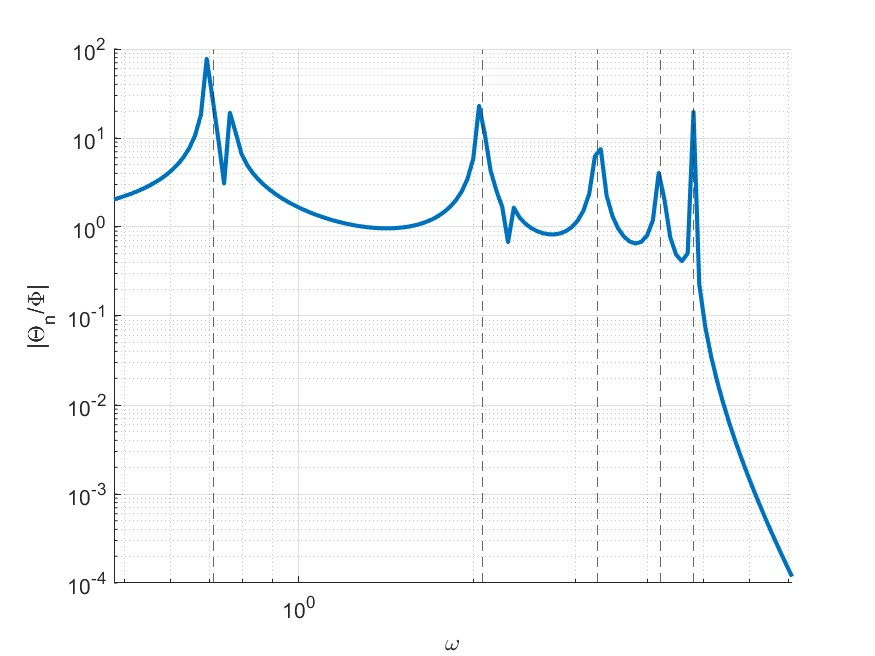
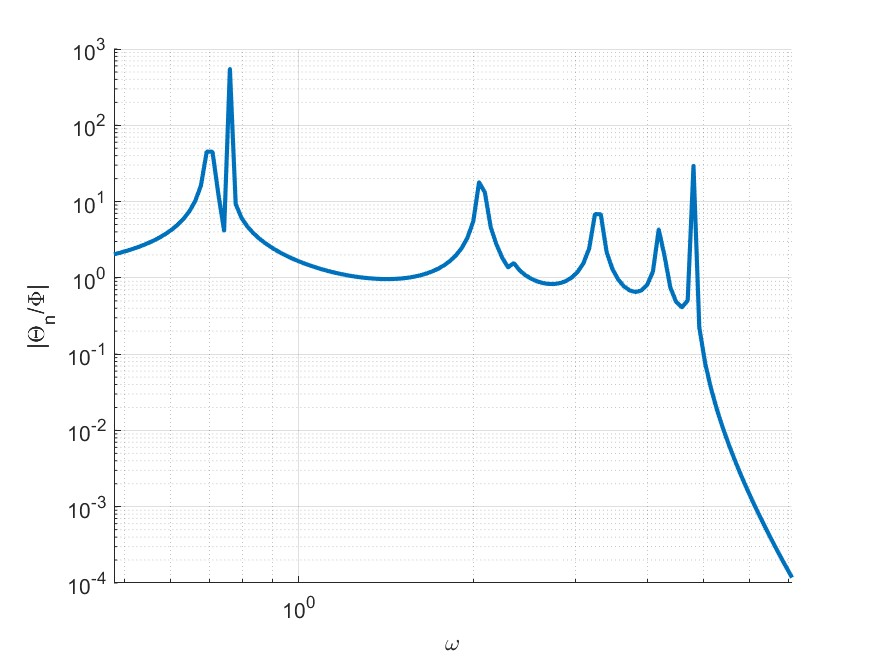
Fixed Excitation Frequency Range

diff --git a/main.m b/main.m
@@ -87,13 +87,15 @@ end
 
 % Timer Start
 c_start = tic();
+% Excitation Frequency Range
+w_e_range = max(w) * (10.^(-1:0.01:log10(1.5)));
 % Base Excitation (Divided by sin(wt))
 P_ = 1;
 % Force Vector (Divided by sin(wt))
 F = zeros(n, 1);
 F(1) = k * P_;
 % Plot
-plot_T_range(n, w, M, f_C(n, 0, [], []), K, F, P_, 'Part B Transmissibility')
+plot_T_range(n, w_e_range, M, f_C(n, 0, [], []), K, F, P_, 'Part B Transmissibility')
 % Elapsed Time
 c_elapsed = toc(c_start);
 
@@ -153,7 +155,7 @@ ca = f_ca(x);
 % Damping Matrix
 C = f_C(n, m, na, ca);
 % Plot
-plot_T_range(n, w, M, C, K, F, P_, 'Part C Transmissibility')
+plot_T_range(n, w_e_range, M, C, K, F, P_, 'Part C Transmissibility')
 % Elapsed Time
 c_elapsed = toc(c_start);
 
@@ -232,7 +234,7 @@ if ~isinf(T_minimax)
     % Natural Frequencies in rad/s
     w = f_w(n, m, M, K);
     % Plot
-    plot_T_range(n, w, M, C, K, F, P_, 'Part D Transmissibility')
+    plot_T_range(n, w_e_range, M, C, K, F, P_, 'Part D Transmissibility')
 end
 % Elapsed Time
 c_elapsed = toc(c_start);
@@ -377,9 +379,7 @@ function T = f_T(n, w_e, M, C, K, F, P_)
 end
 
 % Plot Transmisibility Range
-function plot_T_range(n, w, M, C, K, F, P_, title)
-    % Excitation Frequency Range
-    w_e_range = max(w) * (10.^(-1:0.01:log10(1.5)));
+function plot_T_range(n, w_e_range, M, C, K, F, P_, title)
     % Transmissibility Range
     T_range = f_T_range(n, w_e_range, M, C, K, F, P_);
     % Plot
@@ -391,8 +391,5 @@ function plot_T_range(n, w, M, C, K, F, P_, title)
     xlabel('\omega');
     ylabel('|\Theta_n/\Phi|');
     plot(w_e_range, T_range, 'LineWidth', 2);
-    for w_j = w
-        xline(w_j, '--');
-    end
     saveas(gcf, title, 'jpeg');
 end
